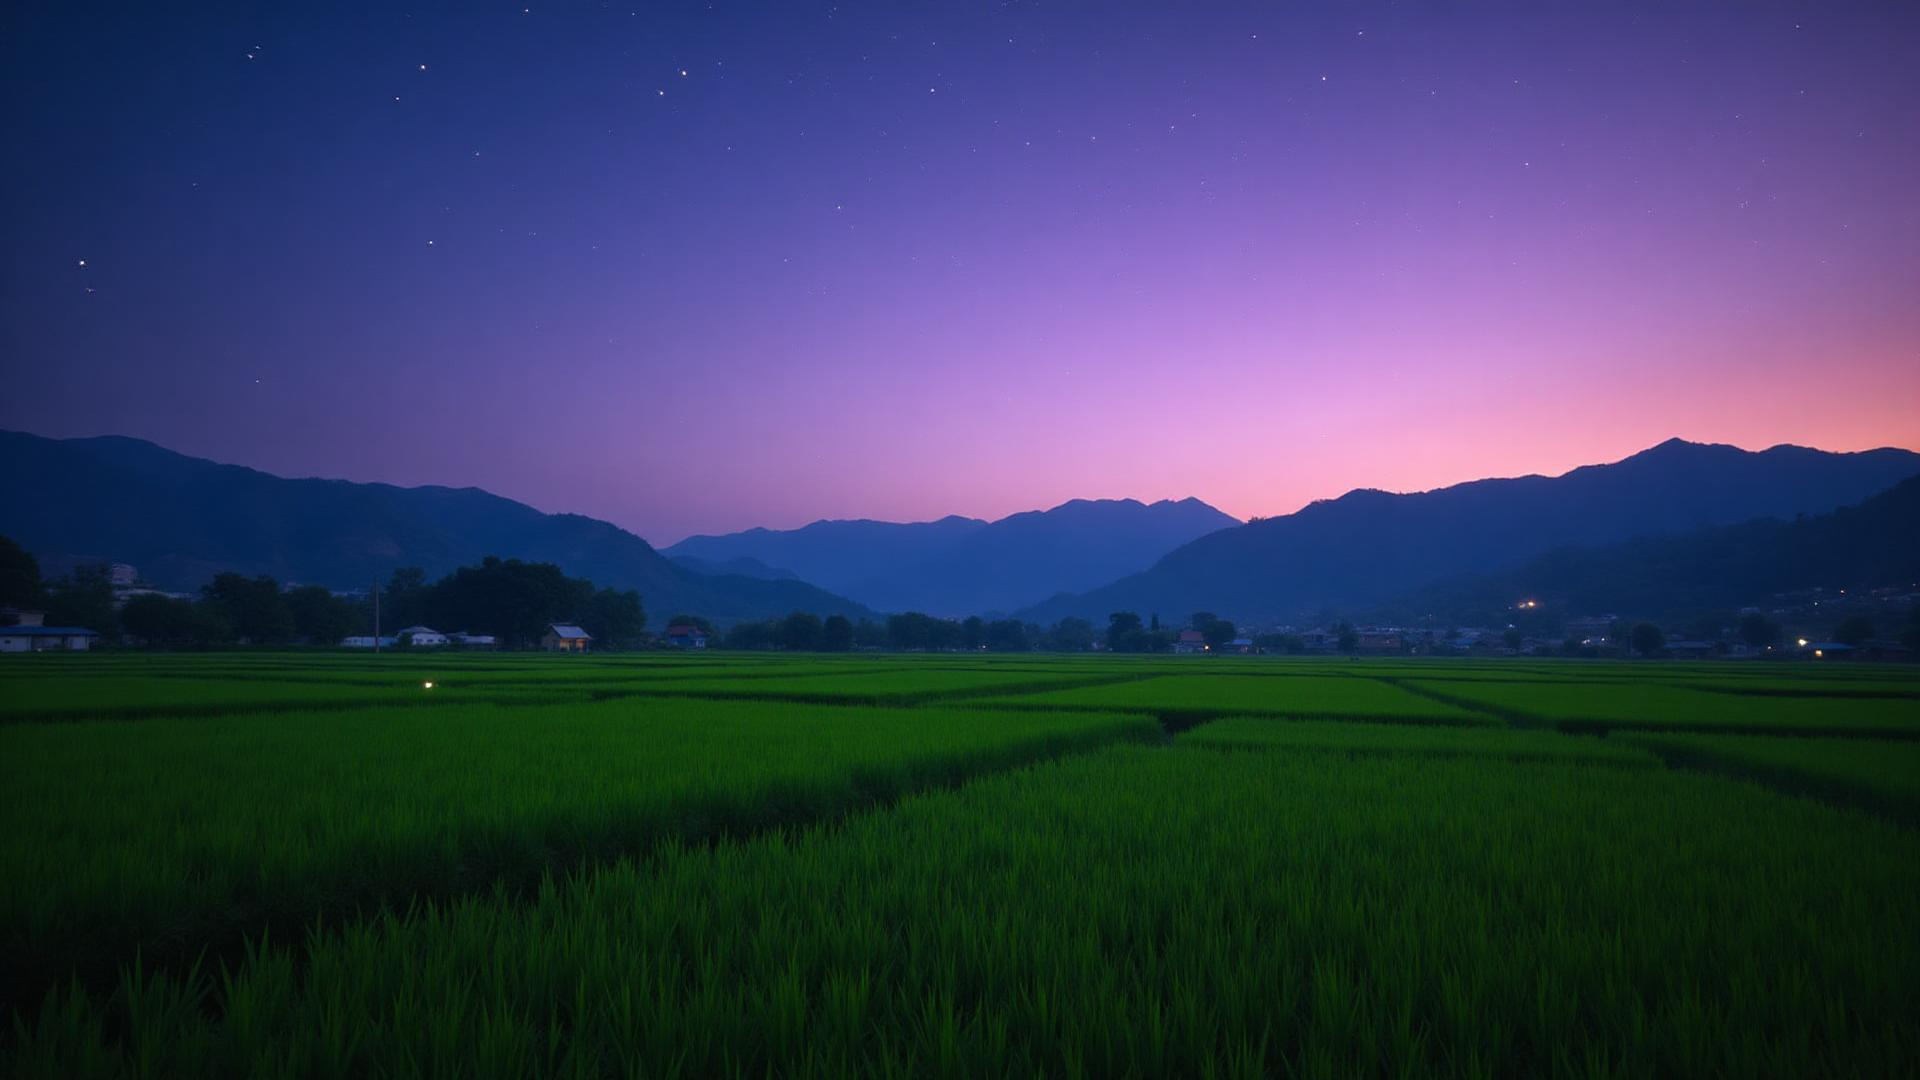
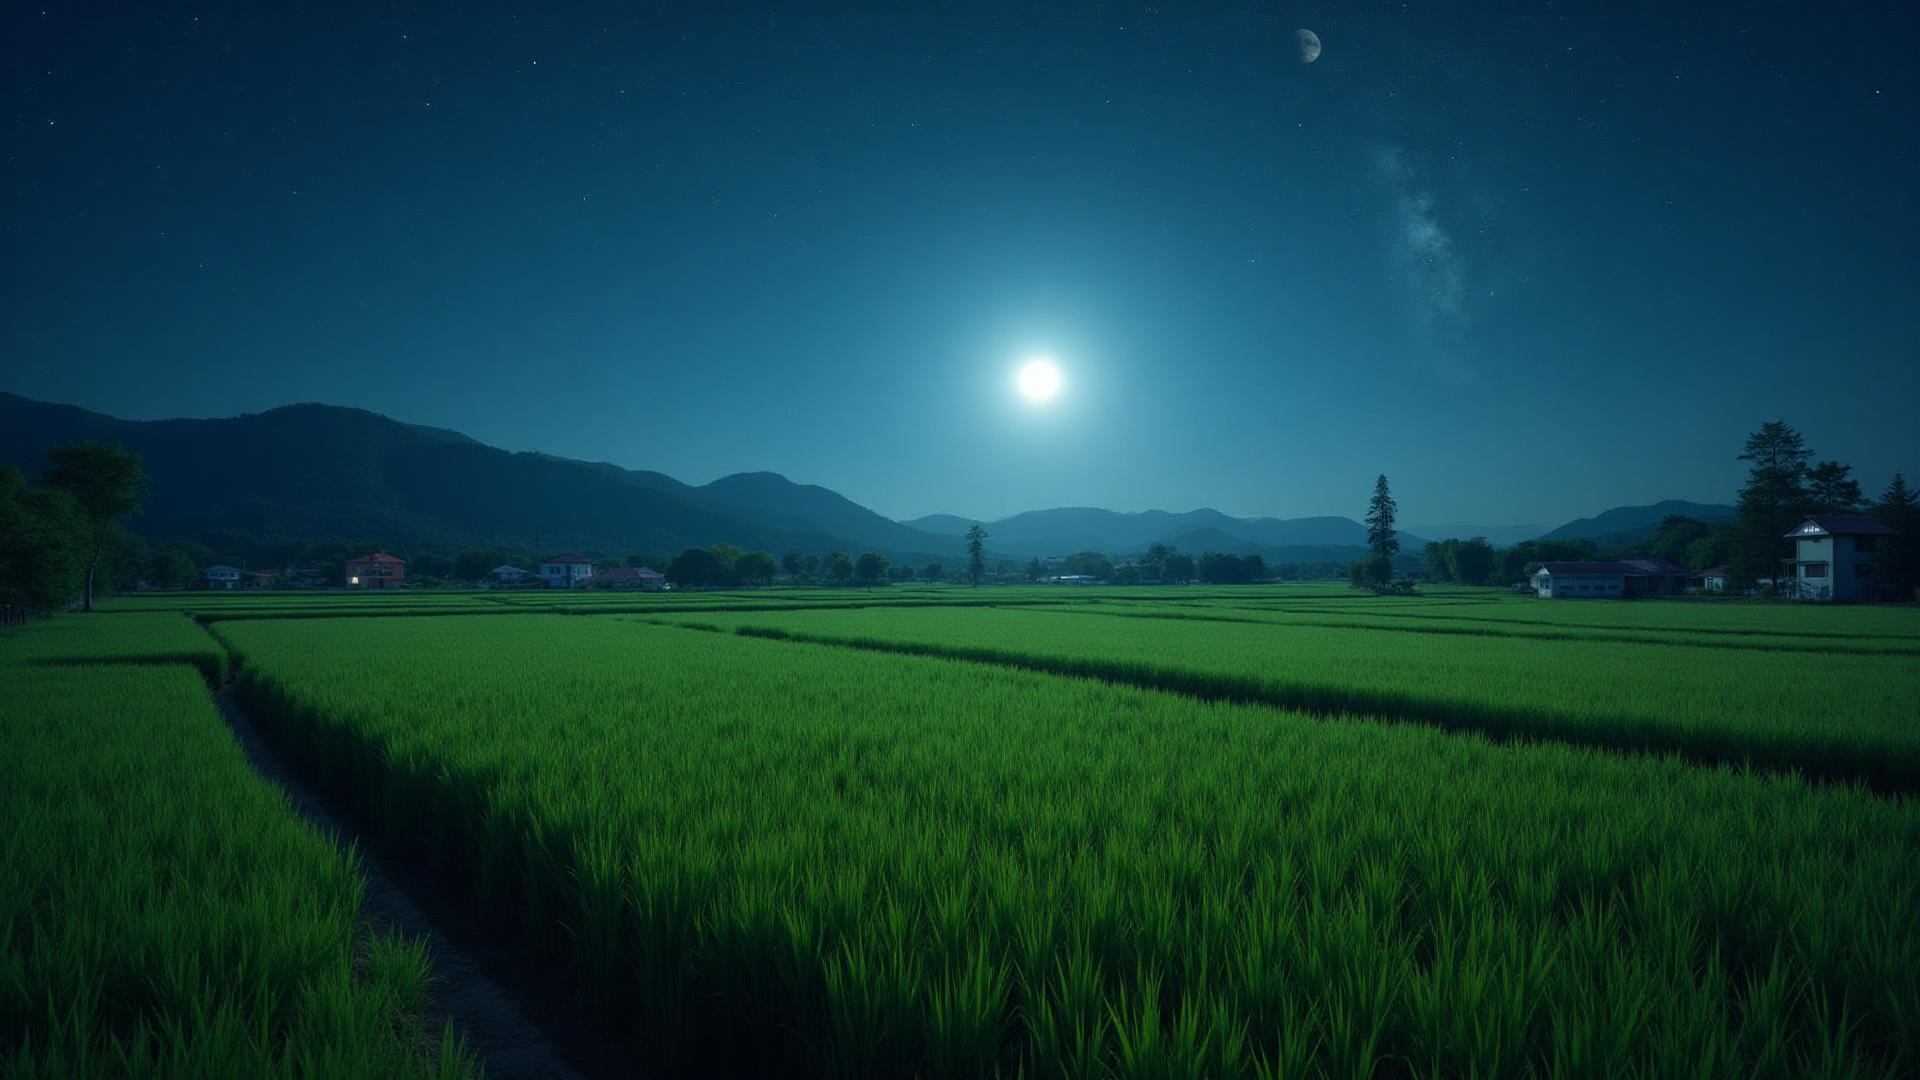
Reverted to commit b1085a7b030e4859d4149185d7d015b7941a2605

diff --git a/src/components/MapView.tsx b/src/components/MapView.tsx
@@ -19,7 +19,6 @@ interface SoilDataPoint {
   nitrogen_level: number | null;
   phosphorus_level: number | null;
   potassium_level: number | null;
-  user_name?: string;
 }
 
 const MapView = () => {
@@ -35,21 +34,12 @@ const MapView = () => {
       try {
         const { data, error } = await supabase
           .from('soil_data')
-          .select(`
-            *,
-            profiles!soil_data_user_id_fkey(full_name)
-          `)
+          .select('*')
           .order('created_at', { ascending: false });
 
         if (error) throw error;
 
-        // Map the data to include user_name
-        const mappedData = data?.map((item: any) => ({
-          ...item,
-          user_name: item.profiles?.full_name || 'Unknown User'
-        })) || [];
-
-        setSoilData(mappedData);
+        setSoilData(data || []);
       } catch (error) {
         console.error('Error fetching soil data:', error);
         toast({
@@ -137,11 +127,8 @@ const MapView = () => {
             <h3 style="margin: 0 0 8px 0; font-size: 16px; font-weight: 600; color: hsl(25 20% 15%);">
               ${point.specific_location}
             </h3>
-            <p style="margin: 0 0 8px 0; font-size: 12px; color: hsl(25 15% 45%);">
+            <p style="margin: 0 0 12px 0; font-size: 12px; color: hsl(25 15% 45%);">
               ${point.municipality}
-            </p>
-            <p style="margin: 0 0 12px 0; font-size: 11px; color: hsl(130 45% 35%); font-weight: 600;">
-              Added by: ${point.user_name || 'Unknown User'}
             </p>
             <div style="display: grid; gap: 6px; font-size: 13px;">
               <div style="display: flex; justify-content: space-between;">

diff --git a/src/components/GreetingPopup.tsx b/src/components/GreetingPopup.tsx
@@ -1,15 +1,15 @@
 import { useState, useEffect } from "react";
 import { supabase } from "@/integrations/supabase/client";
-import morningFarm from "@/assets/morning-farm.jpg";
-import afternoonFarm from "@/assets/afternoon-farm.jpg";
-import eveningFarm from "@/assets/evening-farm.jpg";
+import morningCity from "@/assets/morning-city.jpg";
+import afternoonCity from "@/assets/afternoon-city.jpg";
+import eveningCity from "@/assets/evening-city.jpg";
 
 const GreetingPopup = () => {
   const [show, setShow] = useState(false);
   const [greeting, setGreeting] = useState("");
   const [userName, setUserName] = useState("");
   const [currentTime, setCurrentTime] = useState("");
-  const [backgroundImage, setBackgroundImage] = useState(morningFarm);
+  const [backgroundImage, setBackgroundImage] = useState(morningCity);
 
   useEffect(() => {
     const fetchUserData = async () => {
@@ -45,13 +45,13 @@ const GreetingPopup = () => {
       // Determine greeting based on time
       if (hour >= 5 && hour < 12) {
         setGreeting("Good morning");
-        setBackgroundImage(morningFarm);
+        setBackgroundImage(morningCity);
       } else if (hour >= 12 && hour < 18) {
         setGreeting("Good afternoon");
-        setBackgroundImage(afternoonFarm);
+        setBackgroundImage(afternoonCity);
       } else {
         setGreeting("Good evening");
-        setBackgroundImage(eveningFarm);
+        setBackgroundImage(eveningCity);
       }
     };
 

diff --git a/src/pages/Index.tsx b/src/pages/Index.tsx
@@ -4,9 +4,11 @@ import Hero from "@/components/Hero";
 import GreetingPopup from "@/components/GreetingPopup";
 import Footer from "@/components/Footer";
 import { supabase } from "@/integrations/supabase/client";
+import { useTimeBasedBackground } from "@/hooks/useTimeBasedBackground";
 
 const Index = () => {
   const [isAuthenticated, setIsAuthenticated] = useState(false);
+  const backgroundImage = useTimeBasedBackground();
 
   useEffect(() => {
     supabase.auth.getSession().then(({ data: { session } }) => {
@@ -21,15 +23,26 @@ const Index = () => {
   }, []);
 
   return (
-    <div className="min-h-screen bg-background pb-16">
-      <Navigation />
-      <Hero />
-      {isAuthenticated && (
-        <>
-          <GreetingPopup />
-          <Footer />
-        </>
-      )}
+    <div 
+      className="min-h-screen pb-16 relative"
+      style={{ 
+        backgroundImage: `url(${backgroundImage})`,
+        backgroundSize: 'cover',
+        backgroundPosition: 'center',
+        backgroundAttachment: 'fixed'
+      }}
+    >
+      <div className="fixed inset-0 bg-black/40 backdrop-blur-sm -z-10" />
+      <div className="relative z-10">
+        <Navigation />
+        <Hero />
+        {isAuthenticated && (
+          <>
+            <GreetingPopup />
+            <Footer />
+          </>
+        )}
+      </div>
     </div>
   );
 };

diff --git a/src/hooks/useTimeBasedBackground.ts b/src/hooks/useTimeBasedBackground.ts
@@ -1,0 +1,41 @@
+import { useState, useEffect } from "react";
+import morningBg from "@/assets/rice-fields-bg.jpg";
+import afternoonBg from "@/assets/soil-health-bg.jpg";
+import eveningBg from "@/assets/evening-farm.jpg";
+
+export const useTimeBasedBackground = () => {
+  const getInitialBackground = () => {
+    const hour = new Date().getHours();
+    if (hour >= 5 && hour < 12) {
+      return morningBg;
+    } else if (hour >= 12 && hour < 18) {
+      return afternoonBg;
+    } else {
+      return eveningBg;
+    }
+  };
+
+  const [backgroundImage, setBackgroundImage] = useState(getInitialBackground);
+
+  useEffect(() => {
+    const updateBackground = () => {
+      const hour = new Date().getHours();
+      
+      if (hour >= 5 && hour < 12) {
+        setBackgroundImage(morningBg);
+      } else if (hour >= 12 && hour < 18) {
+        setBackgroundImage(afternoonBg);
+      } else {
+        // Evening: 6 PM onwards (18:00 - 4:59 AM)
+        setBackgroundImage(eveningBg);
+      }
+    };
+
+    updateBackground();
+    const interval = setInterval(updateBackground, 60000); // Check every minute
+
+    return () => clearInterval(interval);
+  }, []);
+
+  return backgroundImage;
+};

diff --git a/src/pages/DashboardPage.tsx b/src/pages/DashboardPage.tsx
@@ -1,13 +1,27 @@
 import Navigation from "@/components/Navigation";
 import Dashboard from "@/components/Dashboard";
 import Footer from "@/components/Footer";
+import { useTimeBasedBackground } from "@/hooks/useTimeBasedBackground";
 
 const DashboardPage = () => {
+  const backgroundImage = useTimeBasedBackground();
+  
   return (
-    <div className="min-h-screen pb-16">
-      <Navigation />
-      <Dashboard />
-      <Footer />
+    <div 
+      className="min-h-screen pb-16 relative"
+      style={{ 
+        backgroundImage: `url(${backgroundImage})`,
+        backgroundSize: 'cover',
+        backgroundPosition: 'center',
+        backgroundAttachment: 'fixed'
+      }}
+    >
+      <div className="fixed inset-0 bg-black/40 backdrop-blur-sm -z-10" />
+      <div className="relative z-10">
+        <Navigation />
+        <Dashboard />
+        <Footer />
+      </div>
     </div>
   );
 };

diff --git a/src/pages/DataEntryPage.tsx b/src/pages/DataEntryPage.tsx
@@ -1,13 +1,27 @@
 import Navigation from "@/components/Navigation";
 import DataInput from "@/components/DataInput";
 import Footer from "@/components/Footer";
+import { useTimeBasedBackground } from "@/hooks/useTimeBasedBackground";
 
 const DataEntryPage = () => {
+  const backgroundImage = useTimeBasedBackground();
+  
   return (
-    <div className="min-h-screen pb-16">
-      <Navigation />
-      <DataInput />
-      <Footer />
+    <div 
+      className="min-h-screen pb-16 relative"
+      style={{ 
+        backgroundImage: `url(${backgroundImage})`,
+        backgroundSize: 'cover',
+        backgroundPosition: 'center',
+        backgroundAttachment: 'fixed'
+      }}
+    >
+      <div className="fixed inset-0 bg-black/40 backdrop-blur-sm -z-10" />
+      <div className="relative z-10">
+        <Navigation />
+        <DataInput />
+        <Footer />
+      </div>
     </div>
   );
 };

diff --git a/src/pages/MapPage.tsx b/src/pages/MapPage.tsx
@@ -1,13 +1,27 @@
 import Navigation from "@/components/Navigation";
 import MapView from "@/components/MapView";
 import Footer from "@/components/Footer";
+import { useTimeBasedBackground } from "@/hooks/useTimeBasedBackground";
 
 const MapPage = () => {
+  const backgroundImage = useTimeBasedBackground();
+  
   return (
-    <div className="min-h-screen pb-16">
-      <Navigation />
-      <MapView />
-      <Footer />
+    <div 
+      className="min-h-screen pb-16 relative"
+      style={{ 
+        backgroundImage: `url(${backgroundImage})`,
+        backgroundSize: 'cover',
+        backgroundPosition: 'center',
+        backgroundAttachment: 'fixed'
+      }}
+    >
+      <div className="fixed inset-0 bg-black/40 backdrop-blur-sm -z-10" />
+      <div className="relative z-10">
+        <Navigation />
+        <MapView />
+        <Footer />
+      </div>
     </div>
   );
 };

diff --git a/src/components/Footer.tsx b/src/components/Footer.tsx
@@ -90,8 +90,8 @@ const Footer = () => {
   if (!userName) return null;
 
   return (
-    <footer className={`fixed bottom-0 left-0 right-0 bg-card/95 backdrop-blur-md border-t border-border py-3 px-6 z-40 transition-transform duration-300 ${
-      slideUp ? "translate-y-2" : "translate-y-0"
+    <footer className={`fixed bottom-0 left-0 right-0 bg-card/95 backdrop-blur-md border-t border-border py-3 px-6 z-40 transition-all duration-500 ${
+      slideUp ? "translate-y-2 opacity-0" : "translate-y-0 opacity-100"
     }`}>
       <div className="flex flex-wrap items-center justify-between gap-4 text-sm">
         <div className="flex items-center gap-2">
